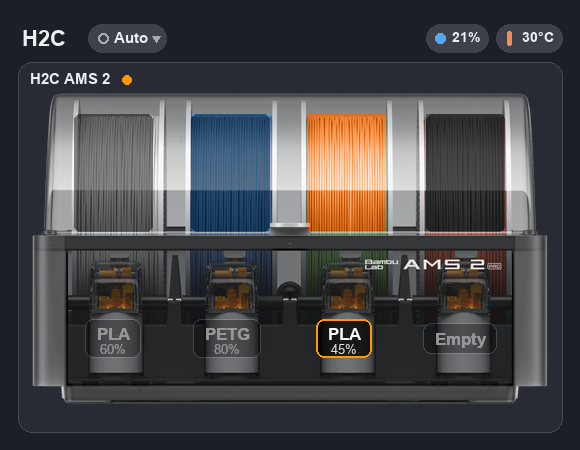
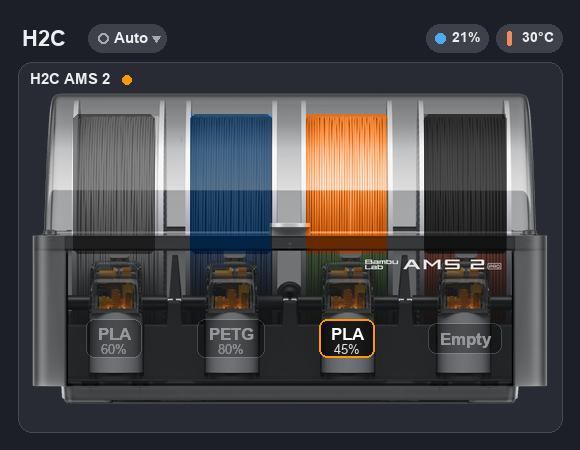
fix: align AMS 2 Pro recolour to full strand bands + extend bottom; nudge labels right
- Windows widened to measured strand bands (x 8.3/30.8/53.1/75.9, w15.7) and
  extended down (h44 -> covers full strand height; no original colour at edges)
- Bay labels centred on spool centres (bayX 16.2/38.7/61/83.7)
- v0.3.4

diff --git a/better-ams-card.js b/better-ams-card.js
@@ -16,7 +16,7 @@
  * https://github.com/petergCA/better-ams-card
  */
 
-const VERSION = "0.3.3";
+const VERSION = "0.3.4";
 
 // Default location for the bundled artwork. Raw GitHub resolves on any install
 // with internet (HACS does not serve a plugin's extra files). Override with
@@ -33,12 +33,12 @@ let IMAGE_BASE = "https://raw.githubusercontent.com/petergCA/better-ams-card/mai
 const MODELS = {
   "ams 2 pro": {
     slots: 4, label: "AMS 2 Pro", image: "ams2pro.png", natW: 1790, natH: 1090,
-    labelY: 78, bayX: [16, 38, 60.5, 82.7],
+    labelY: 78, bayX: [16.2, 38.7, 61.0, 83.7],
     windows: [
-      { x: 8.6, y: 7, w: 15.0, h: 37 },
-      { x: 31.1, y: 7, w: 15.0, h: 37 },
-      { x: 53.4, y: 7, w: 15.0, h: 37 },
-      { x: 76.2, y: 7, w: 15.0, h: 37 },
+      { x: 8.3, y: 7, w: 15.7, h: 44 },
+      { x: 30.8, y: 7, w: 15.7, h: 44 },
+      { x: 53.1, y: 7, w: 15.7, h: 44 },
+      { x: 75.9, y: 7, w: 15.7, h: 44 },
     ],
   },
   "ams": {

diff --git a/scripts/make_preview.py b/scripts/make_preview.py
@@ -44,8 +44,8 @@ def desaturate(img, box, dark=0.0):
             L = int(lum(r, g, b) * (1 - dark)); px[x, y] = (L, L, L, a)
 
 # Calibrated filament windows (must match MODELS["ams 2 pro"].windows in the card)
-WINS = [(8.6, 7, 15.0, 37), (31.1, 7, 15.0, 37), (53.4, 7, 15.0, 37), (76.2, 7, 15.0, 37)]
-BAYX = [16, 38, 60.5, 82.7]  # label centres on the feeder bays
+WINS = [(8.3, 7, 15.7, 44), (30.8, 7, 15.7, 44), (53.1, 7, 15.7, 44), (75.9, 7, 15.7, 44)]
+BAYX = [16.2, 38.7, 61.0, 83.7]  # label centres on the spool/feeder bays
 LABEL_Y = 0.78
 SLOTS = [
     dict(type="PLA",  color=(225, 225, 225), pct=60, active=False, empty=False),